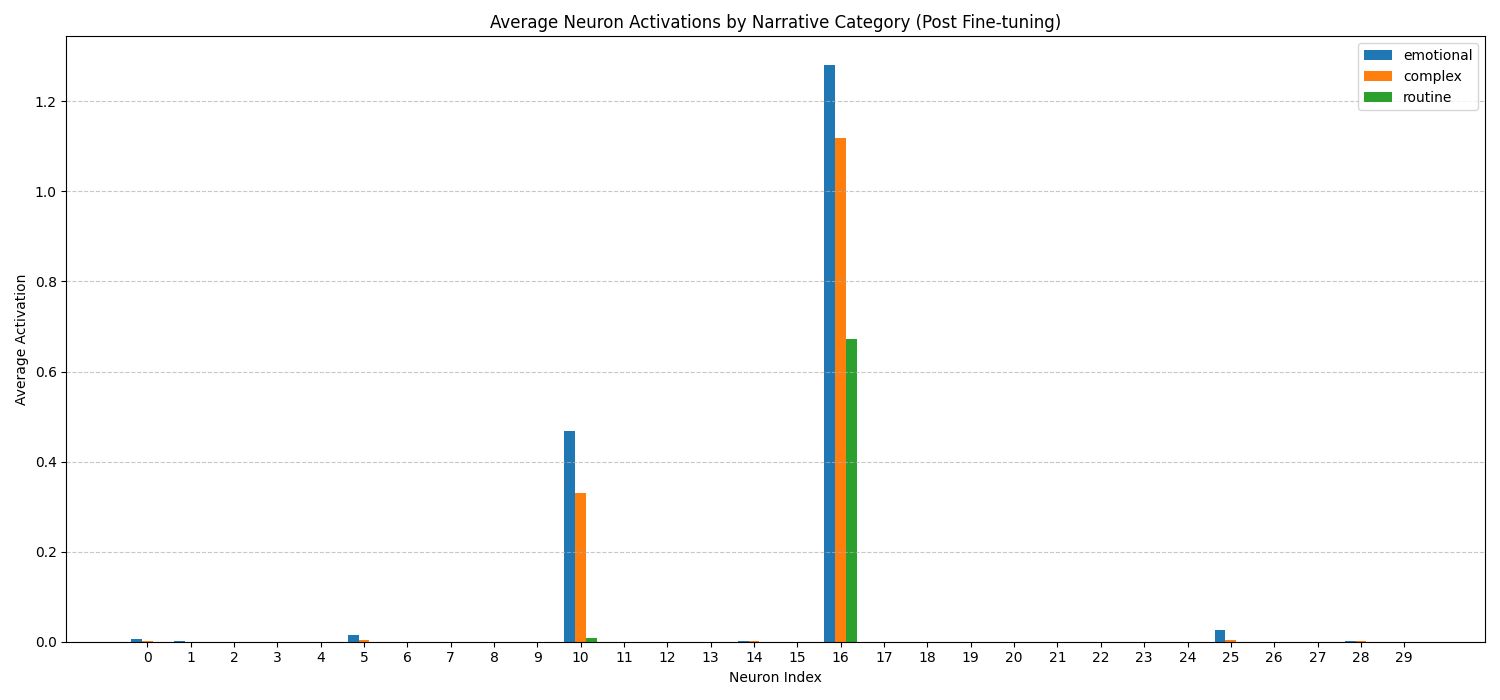
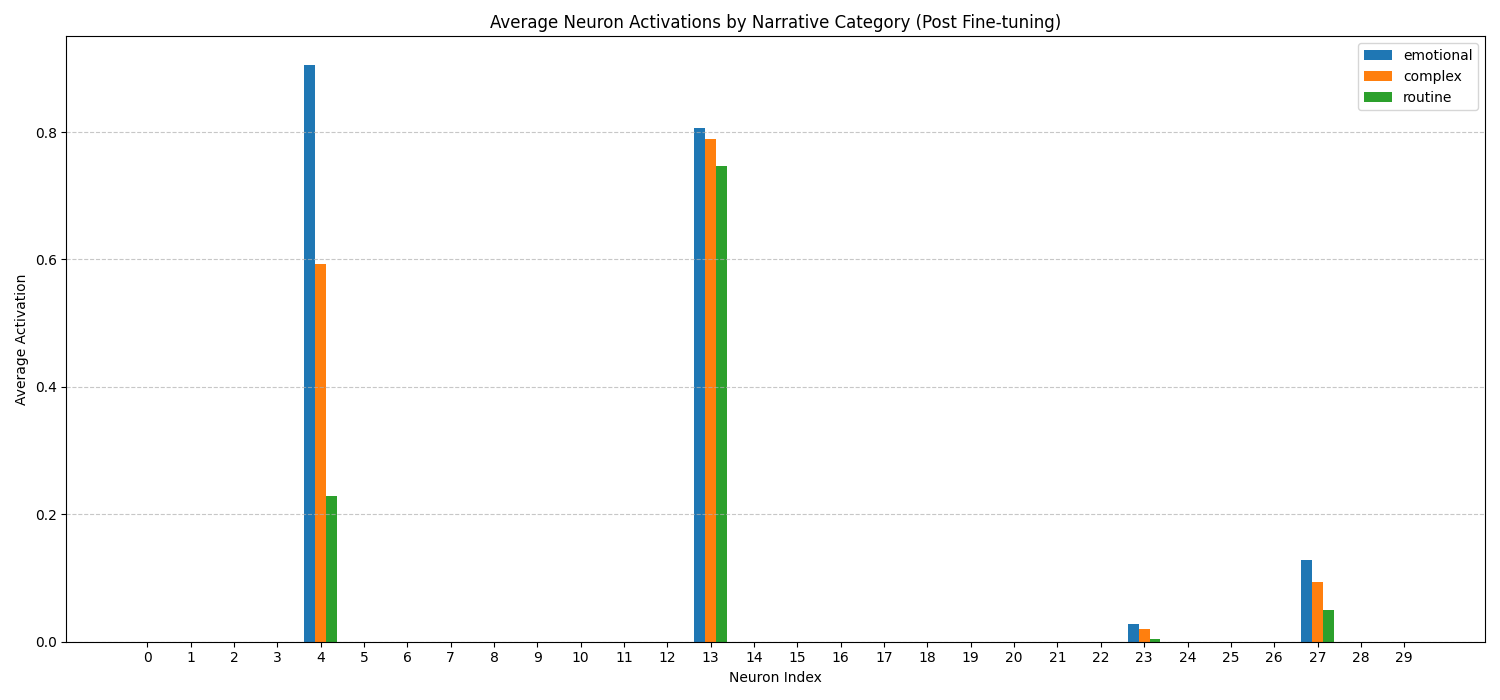
✨ Enhanced `narrative_memory_api.py` with new composite retrieval methods for emotional intensity and structured thought amidst chaos, while updating neuron roles for clarity. Also, set a new default data path for improved data handling. Meanwhile, `sae_text_finetune.py` got a fresh learning rate an

diff --git a/sae_text_finetune.py b/sae_text_finetune.py
@@ -52,8 +52,8 @@ FINETUNED_MODEL_SAVE_PATH = "sae_text_finetuned.pth"
 
 # --- Fine-tuning Hyperparameters ---
 FINETUNE_EPOCHS = 200  # Adjust as needed
-LEARNING_RATE = 1e-4  # Lower LR for fine-tuning
-BETA_L1 = 0.002  # Sparsity strength (Increased further from 0.001)
+LEARNING_RATE = 5e-5  # NEW Lower LR (0.00005)
+BETA_L1 = 0.001  # NEW Slightly reduced sparsity pressure
 BATCH_SIZE = 32  # Add batch size for training on larger data
 
 # --- Simplified Category Names ---
@@ -491,12 +491,12 @@ else:
 
             print(f"Analyzing top texts for {num_total_samples} total samples.")
 
-            # --- Focus on key neurons from the successful BETA_L1 = 0.002 run (with seeds) ---
-            top_neurons_to_interpret = [16, 10]  # Actual dominant neurons in this run
-            k_texts = 5  # Number of top texts to show per neuron
+            # --- Focus on key neurons from the successful BETA_L1 = 0.001 run ---
+            top_neurons_to_interpret = [4, 13, 27]  # Updated neuron indices
+            k_texts = 10  # NEW Number of top texts to show per neuron
 
-            # (Optional: Can add back 25, 14 later if needed for comparison)
-            # old_neurons = [25, 14]
+            # (Optional: Can add back 10, 16 later if needed for comparison)
+            # old_neurons = [10, 16]
             # for neuron_index in old_neurons: ...
 
             for neuron_index in top_neurons_to_interpret:
@@ -735,123 +735,145 @@ def retrieve_external_crisis(trace, crisis_neuron, distress_neuron, threshold=0.
 
 
 # --- Perform Retrieval (Single Neuron) ---
-NEURON_16_INDEX = 16  # Personal Distress Specialist
-NEURON_10_INDEX = 10  # Emotional Intensity & Crisis Indicator
+# NEURON_16_INDEX = 16 # OLD - Personal Distress Specialist
+# NEURON_10_INDEX = 10 # OLD - Emotional Intensity & Crisis Indicator
+NEURON_4_INDEX = 4  # NEW - Emotional Intensity / Salience
+NEURON_13_INDEX = 13  # NEW - Structured Thought / Scene / Planning
+NEURON_27_INDEX = 27  # NEW - External Chaos / Overwhelm
 TOP_K = 5
 
 print(
-    f"\nRetrieving top {TOP_K} memories for Neuron {NEURON_16_INDEX} (Personal Distress)...\n"
+    f"\nRetrieving top {TOP_K} memories for Neuron {NEURON_4_INDEX} (Emotional Intensity/Salience)...\n"
 )
-top_indices_n16, top_values_n16 = retrieve_top_k_memories(
-    memory_trace, NEURON_16_INDEX, k=TOP_K
+top_indices_n4, top_values_n4 = retrieve_top_k_memories(
+    memory_trace, NEURON_4_INDEX, k=TOP_K
 )
-
-print(f"Retrieved indices: {top_indices_n16.tolist()}")
-print("Associated activations:", [f"{v:.4f}" for v in top_values_n16.tolist()])
+print(f"Retrieved indices: {top_indices_n4.tolist()}")
+print("Associated activations:", [f"{v:.4f}" for v in top_values_n4.tolist()])
 print("Corresponding Narratives:")
-for idx in top_indices_n16:
+for idx in top_indices_n4:
+    item = synthetic_data[idx.item()]  # Use .item() to get Python int
+    print(f"  - Index {idx.item()} (Category: {item['category']}): {item['text']}")
+
+print(
+    f"\nRetrieving top {TOP_K} memories for Neuron {NEURON_13_INDEX} (Structure/Scene/Planning)...\n"
+)
+top_indices_n13, top_values_n13 = retrieve_top_k_memories(
+    memory_trace, NEURON_13_INDEX, k=TOP_K
+)
+print(f"Retrieved indices: {top_indices_n13.tolist()}")
+print("Associated activations:", [f"{v:.4f}" for v in top_values_n13.tolist()])
+print("Corresponding Narratives:")
+for idx in top_indices_n13:
+    item = synthetic_data[idx.item()]  # Use .item() to get Python int
+    print(f"  - Index {idx.item()} (Category: {item['category']}): {item['text']}")
+
+print(
+    f"\nRetrieving top {TOP_K} memories for Neuron {NEURON_27_INDEX} (External Chaos/Overwhelm)...\n"
+)
+top_indices_n27, top_values_n27 = retrieve_top_k_memories(
+    memory_trace, NEURON_27_INDEX, k=TOP_K
+)
+print(f"Retrieved indices: {top_indices_n27.tolist()}")
+print("Associated activations:", [f"{v:.4f}" for v in top_values_n27.tolist()])
+print("Corresponding Narratives:")
+for idx in top_indices_n27:
     item = synthetic_data[idx.item()]  # Use .item() to get Python int
     print(f"  - Index {idx.item()} (Category: {item['category']}): {item['text']}")
 
 
+# --- Perform Composite Retrieval --- (Updated Examples)
+print("\n--- Performing NEW Composite Queries ---")
+
+# Query 1: Emotional Intensity without External Chaos (High N4, Low N27)
 print(
-    f"\nRetrieving top {TOP_K} memories for Neuron {NEURON_10_INDEX} (Intensity/Crisis)...\n"
+    f"\nRetrieving top {TOP_K} memories for High N4 / Low N27 (Intensity without Chaos)..."
 )
-top_indices_n10, top_values_n10 = retrieve_top_k_memories(
-    memory_trace, NEURON_10_INDEX, k=TOP_K
-)
-
-print(f"Retrieved indices: {top_indices_n10.tolist()}")
-print("Associated activations:", [f"{v:.4f}" for v in top_values_n10.tolist()])
-print("Corresponding Narratives:")
-for idx in top_indices_n10:
-    item = synthetic_data[idx.item()]  # Use .item() to get Python int
-    print(f"  - Index {idx.item()} (Category: {item['category']}): {item['text']}")
-
-# --- Perform Composite Retrieval ---
-print("\n--- Performing Composite Queries ---")
-
-# Query 1: Personal Distress without External Crisis (High N16, Low N10)
-print(
-    f"\nRetrieving top {TOP_K} memories for High N16 / Low N10 (Personal Distress Focus)..."
-)
-top_indices_p16_n10, top_scores_p16_n10 = retrieve_memories_composite(
+top_indices_p4_n27, top_scores_p4_n27 = retrieve_memories_composite(
     memory_trace,
-    positive_neurons=[NEURON_16_INDEX],
-    negative_neurons=[NEURON_10_INDEX],
+    positive_neurons=[NEURON_4_INDEX],
+    negative_neurons=[NEURON_27_INDEX],
     k=TOP_K,
 )
-print(f"Retrieved indices: {top_indices_p16_n10.tolist()}")
-print("Associated composite scores:", [f"{v:.4f}" for v in top_scores_p16_n10.tolist()])
+print(f"Retrieved indices: {top_indices_p4_n27.tolist()}")
+print(
+    "Associated composite scores (N4 - N27):",
+    [f"{v:.4f}" for v in top_scores_p4_n27.tolist()],
+)
 print("Corresponding Narratives:")
-for idx in top_indices_p16_n10:
+for idx in top_indices_p4_n27:
     item = synthetic_data[idx.item()]
-    # Show N16 and N10 activations for clarity
-    n16_act = memory_trace[idx.item(), NEURON_16_INDEX].item()
-    n10_act = memory_trace[idx.item(), NEURON_10_INDEX].item()
+    n4_act = memory_trace[idx.item(), NEURON_4_INDEX].item()
+    n27_act = memory_trace[idx.item(), NEURON_27_INDEX].item()
     print(
-        f"  - Index {idx.item()} (Cat: {item['category']}, N16: {n16_act:.3f}, N10: {n10_act:.3f}): {item['text']}"
+        f"  - Index {idx.item()} (Cat: {item['category']}, N4: {n4_act:.3f}, N27: {n27_act:.3f}): {item['text']}"
     )
 
-# Query 2: External Crisis without Deep Personal Distress (High N10 > threshold, Low N16)
+# Query 2: Structured Thought during Chaos (High N13, High N27)
 print(
-    f"\nRetrieving top {TOP_K} memories for Refined External Crisis (N10 >= 0.5, penalized by N16)..."
+    f"\nRetrieving top {TOP_K} memories for High N13 & High N27 (Structured Thought in Chaos)..."
 )
-CRISIS_THRESHOLD = 0.5  # Define the threshold
-top_indices_crisis_refined, top_scores_crisis_refined = retrieve_external_crisis(
+top_indices_p13_p27, top_scores_p13_p27 = retrieve_memories_composite(
     memory_trace,
-    crisis_neuron=NEURON_10_INDEX,
-    distress_neuron=NEURON_16_INDEX,
-    threshold=CRISIS_THRESHOLD,
+    positive_neurons=[NEURON_13_INDEX, NEURON_27_INDEX],
+    negative_neurons=[],
     k=TOP_K,
 )
-
-if top_indices_crisis_refined.numel() > 0:
-    print(f"Retrieved indices: {top_indices_crisis_refined.tolist()}")
-    print(
-        "Associated composite scores (N10 - N16, for N10 >= threshold):",
-        [f"{v:.4f}" for v in top_scores_crisis_refined.tolist()],
-    )
-    print("Corresponding Narratives:")
-    for idx in top_indices_crisis_refined:
-        item = synthetic_data[idx.item()]
-        n16_act = memory_trace[idx.item(), NEURON_16_INDEX].item()
-        n10_act = memory_trace[idx.item(), NEURON_10_INDEX].item()
-        print(
-            f"  - Index {idx.item()} (Cat: {item['category']}, N16: {n16_act:.3f}, N10: {n10_act:.3f}): {item['text']}"
-        )
-else:
-    print("No memories met the refined external crisis criteria.")
-
-# Query 3: Routine-like (Low N10 and Low N16) - Maximize the NEGATIVE of their sum
-print(f"\nRetrieving top {TOP_K} memories for Low N10 & Low N16 (Routine Focus)...")
-# We want the MINIMUM sum of N10 and N16. TopK finds maximums.
-# So, we find the maximum of the NEGATIVE of their average activation.
-# Effectively, retrieve_memories_composite with only negative neurons maximizes the score = 0 - neg_penalty
-top_indices_routine, top_scores_routine = retrieve_memories_composite(
-    memory_trace,
-    positive_neurons=[],  # No positive contribution
-    negative_neurons=[NEURON_10_INDEX, NEURON_16_INDEX],
-    k=TOP_K,
-)
-# Note: The score here is -(Avg(N10, N16)), so higher score means lower activation
-print(f"Retrieved indices: {top_indices_routine.tolist()}")
+print(f"Retrieved indices: {top_indices_p13_p27.tolist()}")
 print(
-    "Associated composite scores (higher means lower N10/N16 activation):",
-    [f"{v:.4f}" for v in top_scores_routine.tolist()],
+    "Associated composite scores (Avg(N13, N27)):",
+    [f"{v:.4f}" for v in top_scores_p13_p27.tolist()],
 )
 print("Corresponding Narratives:")
-for idx in top_indices_routine:
+for idx in top_indices_p13_p27:
     item = synthetic_data[idx.item()]
-    n16_act = memory_trace[idx.item(), NEURON_16_INDEX].item()
-    n10_act = memory_trace[idx.item(), NEURON_10_INDEX].item()
+    n13_act = memory_trace[idx.item(), NEURON_13_INDEX].item()
+    n27_act = memory_trace[idx.item(), NEURON_27_INDEX].item()
     print(
-        f"  - Index {idx.item()} (Cat: {item['category']}, N16: {n16_act:.3f}, N10: {n10_act:.3f}): {item['text']}"
+        f"  - Index {idx.item()} (Cat: {item['category']}, N13: {n13_act:.3f}, N27: {n27_act:.3f}): {item['text']}"
     )
 
-# -------------------------------------\
+# Query 3: Non-Emotional Structure/Routine (High N13, Low N4, Low N27)
+print(
+    f"\nRetrieving top {TOP_K} memories for High N13 / Low N4 & N27 (Routine Structure Focus)..."
+)
+top_indices_p13_n4_n27, top_scores_p13_n4_n27 = retrieve_memories_composite(
+    memory_trace,
+    positive_neurons=[NEURON_13_INDEX],
+    negative_neurons=[NEURON_4_INDEX, NEURON_27_INDEX],
+    k=TOP_K,
+)
+print(f"Retrieved indices: {top_indices_p13_n4_n27.tolist()}")
+print(
+    "Associated composite scores (N13 - Avg(N4, N27)):",
+    [f"{v:.4f}" for v in top_scores_p13_n4_n27.tolist()],
+)
+print("Corresponding Narratives:")
+for idx in top_indices_p13_n4_n27:
+    item = synthetic_data[idx.item()]
+    n4_act = memory_trace[idx.item(), NEURON_4_INDEX].item()
+    n13_act = memory_trace[idx.item(), NEURON_13_INDEX].item()
+    n27_act = memory_trace[idx.item(), NEURON_27_INDEX].item()
+    print(
+        f"  - Index {idx.item()} (Cat: {item['category']}, N4: {n4_act:.3f}, N13: {n13_act:.3f}, N27: {n27_act:.3f}): {item['text']}"
+    )
+
+# (Removing old queries based on N10/N16)
+# print(
+#     f"\nRetrieving top {TOP_K} memories for High N16 / Low N10 (Personal Distress Focus)..."
+# )
+# ... (old code removed) ...
+# print(
+#     f"\nRetrieving top {TOP_K} memories for Refined External Crisis (N10 >= 0.5, penalized by N16)..."
+# )
+# ... (old code removed) ...
+# print(f"\nRetrieving top {TOP_K} memories for Low N10 & Low N16 (Routine Focus)...")
+# ... (old code removed) ...
+
+
+# -------------------------------------
 # 9. Further Analysis (Placeholder for original analysis plots if any)
-# -------------------------------------\
+# -------------------------------------
 print("\n--- Analysis/Retrieval Complete --- ")
 
 # --- Visualization Section ---

diff --git a/narrative_memory_api.py b/narrative_memory_api.py
@@ -35,12 +35,17 @@ class SparseMemoryText(nn.Module):
 
 # --- Narrative Memory API Class ---
 
+# Key Neuron Roles (for default sae_text_finetuned.pth with BETA_L1=0.001):
+# Neuron 4: Emotional Intensity / Salience / Confrontation / Loss
+# Neuron 13: Structured Thought / Scene Description / Planning / Complexity
+# Neuron 27: External Chaos / Overwhelm / Systemic Conflict / Disorder
+
 
 class NarrativeMemoryAPI:
     def __init__(
         self,
         model_path="sae_text_finetuned.pth",
-        data_path="synthetic_narrative_data.json",
+        data_path="processed_batches/results_batch_68132475ee8481908e4db8b9c4605c0c.json",  # NEW Default
         embedding_model_name="all-MiniLM-L6-v2",
         embedding_dim=384,  # From config
         event_size=300,  # From config
@@ -234,46 +239,49 @@ class NarrativeMemoryAPI:
 
         return top_k_indices, top_k_values
 
-    def retrieve_external_crisis(
-        self, crisis_neuron=10, distress_neuron=16, threshold=0.5, k=5
-    ):
-        """Refined retrieval for external crisis narratives."""
+    # --- NEW High-Level Composite Queries ---
+
+    def retrieve_intensity_without_chaos(self, k=5):
+        """Retrieves narratives with high emotional intensity (N4) but low external chaos (N27)."""
         print(
-            f"\nRetrieving top {k} refined external crisis (N{crisis_neuron}>={threshold}, penalized by N{distress_neuron})..."
+            f"\nRetrieving top {k} for Intensity without Chaos (High N4 / Low N27)..."
         )
-        if (
-            crisis_neuron < 0
-            or crisis_neuron >= self.compressed_size
-            or distress_neuron < 0
-            or distress_neuron >= self.compressed_size
-        ):
-            print(f"Error: Neuron indices out of bounds (0-{self.compressed_size-1}).")
-            return torch.tensor([], dtype=torch.long), torch.tensor(
-                [], dtype=torch.float
-            )
+        # Indices assume default model: N4 (Intensity), N27 (Chaos)
+        return self.retrieve_memories_composite(
+            positive_neurons=[4], negative_neurons=[27], k=k
+        )
 
-        crisis_activation = self.memory_trace[:, crisis_neuron]
-        valid_indices = (crisis_activation >= threshold).nonzero(as_tuple=True)[0]
+    def retrieve_structure_in_chaos(self, k=5):
+        """Retrieves narratives exhibiting structure/planning (N13) amidst external chaos (N27)."""
+        print(f"\nRetrieving top {k} for Structure in Chaos (High N13 & N27)...")
+        # Indices assume default model: N13 (Structure), N27 (Chaos)
+        return self.retrieve_memories_composite(
+            positive_neurons=[13, 27], negative_neurons=[], k=k
+        )
 
-        if valid_indices.numel() == 0:
-            print(
-                f"No memories found with Neuron {crisis_neuron} activation >= {threshold}"
-            )
-            return torch.tensor([], dtype=torch.long), torch.tensor(
-                [], dtype=torch.float
-            )
-
+    def retrieve_routine_structure(self, k=5):
+        """Retrieves narratives focused on routine/structure (High N13) without high emotion (N4) or chaos (N27)."""
         print(
-            f"Found {valid_indices.numel()} memories with Neuron {crisis_neuron} >= {threshold}"
+            f"\nRetrieving top {k} for Routine Structure (High N13 / Low N4 & N27)..."
         )
-        filtered_trace = self.memory_trace[valid_indices]
-        scores = filtered_trace[:, crisis_neuron] - filtered_trace[:, distress_neuron]
+        # Indices assume default model: N13 (Structure), N4 (Intensity), N27 (Chaos)
+        return self.retrieve_memories_composite(
+            positive_neurons=[13], negative_neurons=[4, 27], k=k
+        )
 
-        actual_k = min(k, scores.size(0))
-        top_k_scores, top_k_relative_indices = torch.topk(scores, actual_k)
-        top_k_original_indices = valid_indices[top_k_relative_indices]
+    # --- Deprecated/Old Methods ---
 
-        return top_k_original_indices, top_k_scores
+    # def retrieve_external_crisis(
+    #     self, crisis_neuron=10, distress_neuron=16, threshold=0.5, k=5
+    # ):
+    #     """DEPRECATED: Relied on neuron roles from older models."""
+    #     print(
+    #         f"\nDEPRECATED: Retrieving top {k} refined external crisis (N{crisis_neuron}>={threshold}, penalized by N{distress_neuron})..."
+    #     )
+    #     # ... (Implementation removed for brevity or kept commented out)
+    #     pass
+
+    # --- Utility Methods ---
 
     def get_activations(self, indices):
         """Returns the full activation vectors for the given indices."""

diff --git a/sae_narrative_l1_recon_experiment.py b/sae_narrative_l1_recon_experiment.py
@@ -5,6 +5,10 @@ import torch.nn.functional as F  # For cosine similarity
 import matplotlib.pyplot as plt
 import numpy as np
 
+seed = 42
+torch.manual_seed(seed)
+np.random.seed(seed)
+
 
 # -------------------------------------
 # 1. Model Definition (Same as before)
